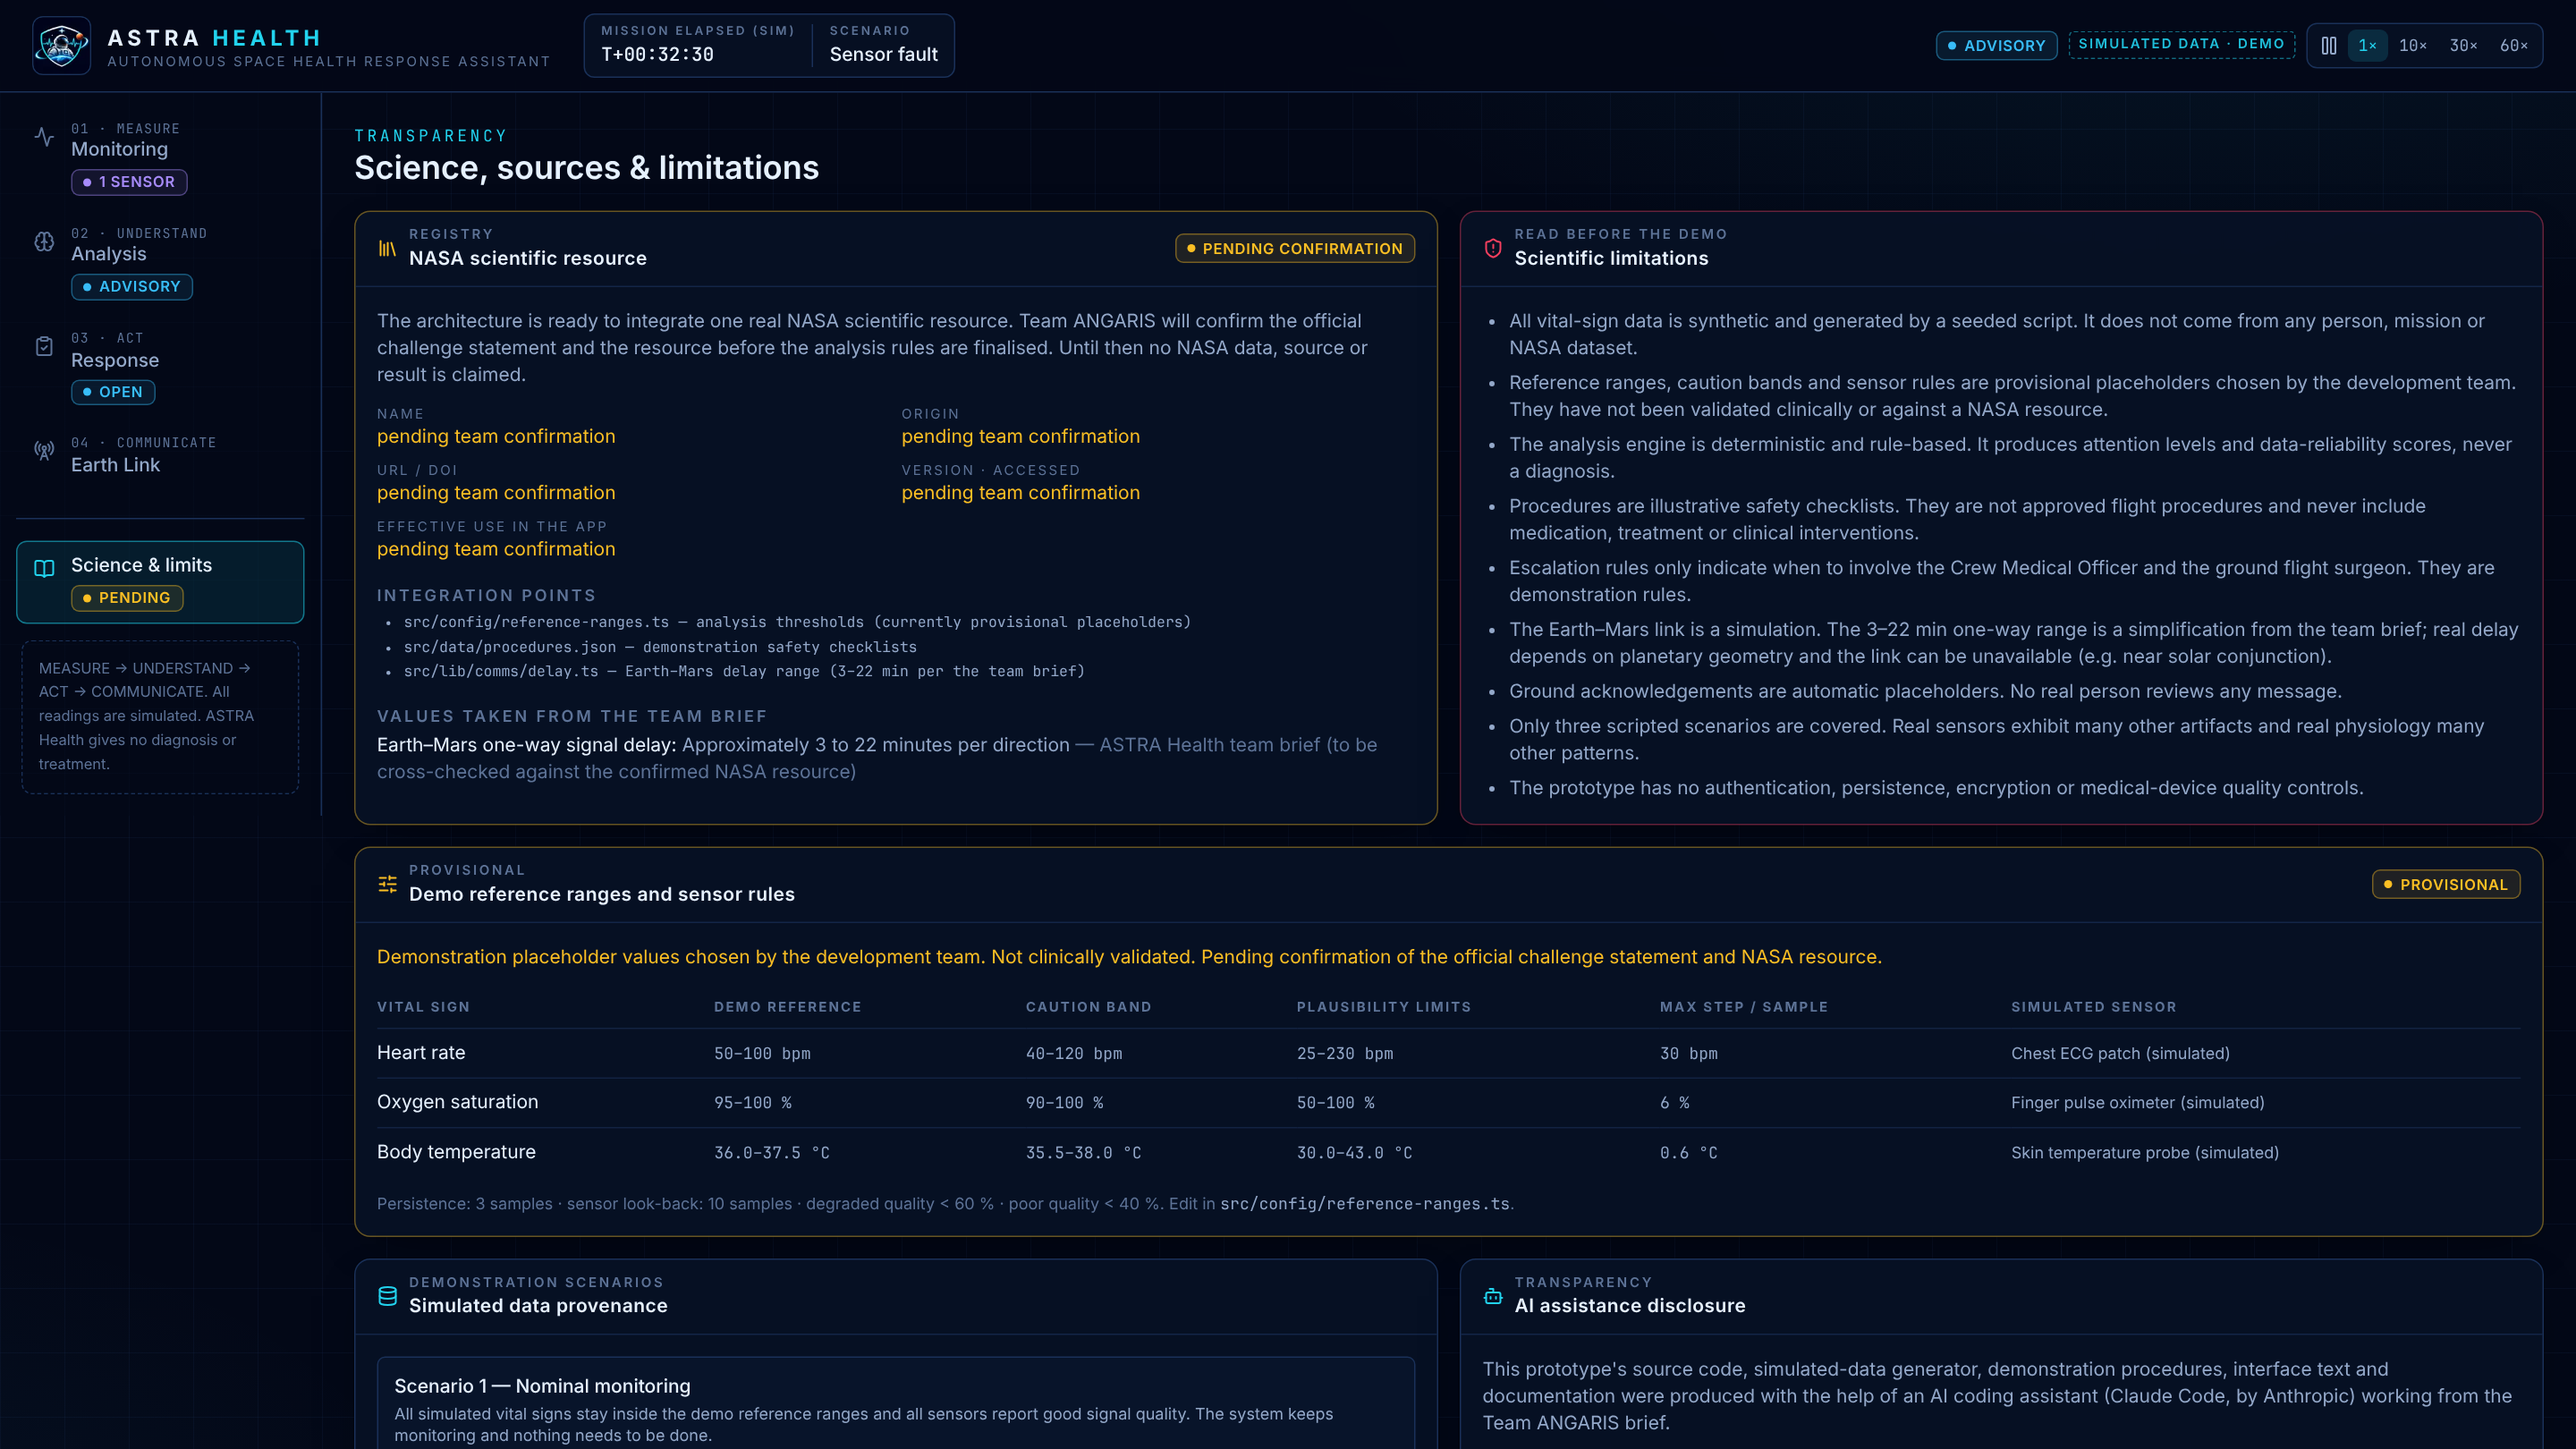
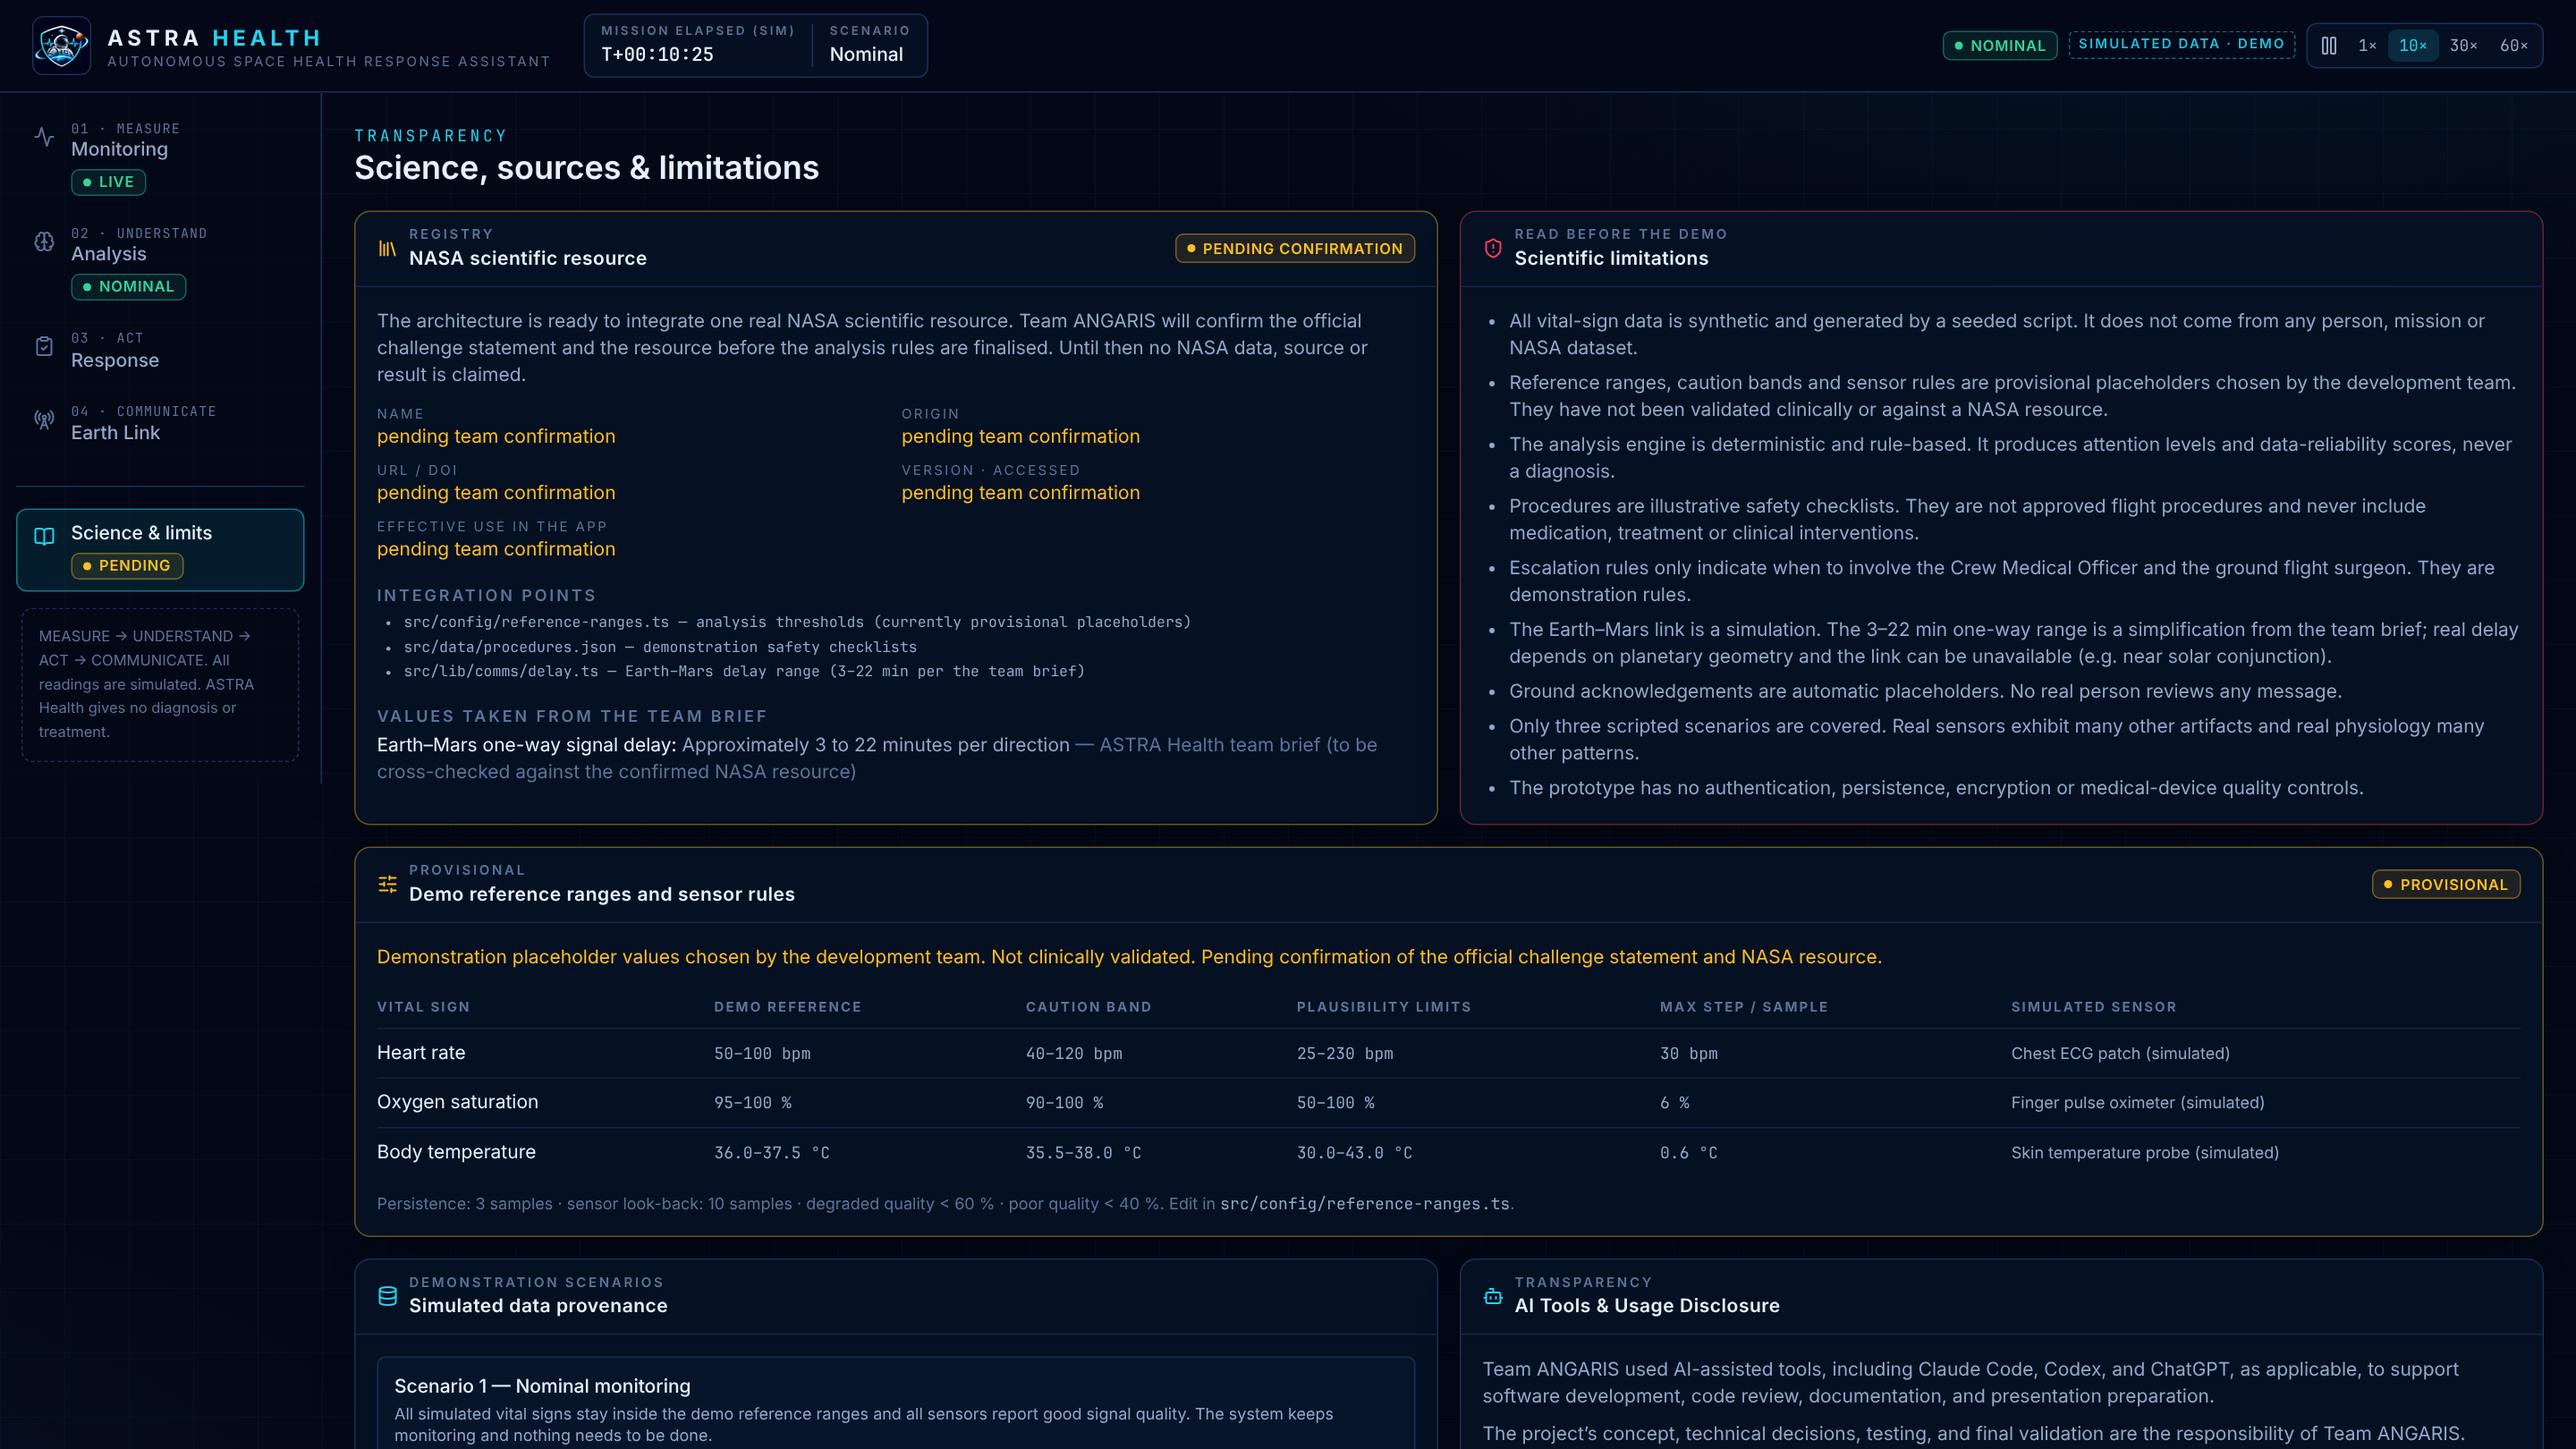
Fix tablet layout and align in-app AI disclosure
- Vital-sign cards stack on tablets (3 columns from 1024 px) and no longer overflow
- Science & limits page shows the Team ANGARIS AI Tools & Usage Disclosure; test added
- README test counts updated; science screenshot recaptured

diff --git a/src/components/science/ScienceView.tsx b/src/components/science/ScienceView.tsx
@@ -135,19 +135,21 @@ export function ScienceView() {
           </ul>
         </Panel>
 
-        <Panel title="AI assistance disclosure" eyebrow="Transparency" icon={Bot}>
-          <div className="space-y-2 text-sm text-ink-muted">
+        <Panel title="AI Tools & Usage Disclosure" eyebrow="Transparency" icon={Bot}>
+          <div className="space-y-2 text-sm text-ink-muted" data-testid="ai-disclosure">
             <p>
-              This prototype&apos;s source code, simulated-data generator, demonstration procedures, interface text and documentation were
-              produced with the help of an AI coding assistant (Claude Code, by Anthropic) working from the Team ANGARIS brief.
+              Team ANGARIS used AI-assisted tools, including Claude Code, Codex, and ChatGPT, as applicable, to support software
+              development, code review, documentation, and presentation preparation.
+            </p>
+            <p>The project&rsquo;s concept, technical decisions, testing, and final validation are the responsibility of Team ANGARIS.</p>
+            <p>
+              All physiological data presented in the prototype are simulated. ASTRA Health is an experimental demonstration and is not
+              a clinically validated medical device.
             </p>
             <p>
-              The team is responsible for reviewing all AI-assisted content, confirming the scientific statement and NASA resource, and
-              validating every rule before any claim is made. See <code>AI_DISCLOSURE.md</code> in the repository.
-            </p>
-            <p>
-              The ASTRA Health logo (and the emblem cropped from it for the header and favicon) is an AI-generated image supplied by
-              the team; the original file keeps its &quot;AI-generated&quot; label (<code>public/brand/astra-health-logo.png</code>).
+              The ASTRA Health logo (and the emblem cropped from it for the header and favicon) is an AI-generated image; the original
+              file keeps its &quot;AI-generated&quot; label (<code>public/brand/astra-health-logo.png</code>). See{" "}
+              <code>AI_DISCLOSURE.md</code> in the repository.
             </p>
             <p className="flex items-center gap-2 text-xs text-ink-faint">
               <FlaskConical className="h-4 w-4" /> No AI model runs inside the application: all analysis is deterministic.

diff --git a/src/components/monitor/MonitorView.tsx b/src/components/monitor/MonitorView.tsx
@@ -102,16 +102,16 @@ function VitalCard({ vital, series }: { vital: VitalKey; series: ChartPoint[] })
       aria-label={`${vc.label} (simulated)`}
     >
       <div className="flex items-start justify-between gap-2">
-        <div className="flex items-center gap-2">
-          <span className={cx("grid h-8 w-8 place-items-center rounded-lg border", t.border, t.bg)}>
+        <div className="flex min-w-0 items-center gap-2">
+          <span className={cx("grid h-8 w-8 shrink-0 place-items-center rounded-lg border", t.border, t.bg)}>
             <Icon aria-hidden className={cx("h-4 w-4", t.text)} />
           </span>
-          <div className="leading-tight">
+          <div className="min-w-0 leading-tight">
             <p className="text-sm font-semibold text-ink">{vc.label}</p>
             <p className="text-[11px] text-ink-faint">Demo ref. {formatRange(vital, vc.normal)}</p>
           </div>
         </div>
-        <DemoTag label="Sim" />
+        <DemoTag label="Sim" className="shrink-0" />
       </div>
       <div className="mt-3 flex items-end gap-2">
         <span className={cx("tabular font-mono text-5xl font-semibold leading-none", excluded ? "text-level-sensor line-through decoration-2" : "text-ink")}>
@@ -231,7 +231,7 @@ export function MonitorView() {
       </div>
       <ScenarioControl />
       <div className="grid grid-cols-1 gap-4 xl:grid-cols-4">
-        <div className="grid grid-cols-1 gap-4 md:grid-cols-3 xl:col-span-3">
+        <div className="grid grid-cols-1 gap-4 lg:grid-cols-3 xl:col-span-3">
           {VITAL_KEYS.map((k) => (
             <VitalCard key={k} vital={k} series={series[k]} />
           ))}

diff --git a/tests/science.test.ts b/tests/science.test.ts
@@ -40,3 +40,16 @@ describe("demonstration procedures", () => {
     }
   });
 });
+
+describe("AI tools & usage disclosure", () => {
+  it("is shown verbatim on the Science & limits page", async () => {
+    const { render, screen } = await import("@testing-library/react");
+    const { ScienceView } = await import("@/components/science/ScienceView");
+    render(ScienceView());
+    const panel = screen.getByTestId("ai-disclosure");
+    expect(panel).toHaveTextContent(
+      "Team ANGARIS used AI-assisted tools, including Claude Code, Codex, and ChatGPT, as applicable, to support software development, code review, documentation, and presentation preparation.",
+    );
+    expect(panel).toHaveTextContent("is not a clinically validated medical device");
+  });
+});

diff --git a/README.pt-BR.md b/README.pt-BR.md
@@ -12,7 +12,7 @@
   <img alt="TypeScript strict" src="https://img.shields.io/badge/TypeScript-strict-3178C6?logo=typescript&logoColor=white" />
   <img alt="Tailwind CSS 4" src="https://img.shields.io/badge/Tailwind_CSS-4-06B6D4?logo=tailwindcss&logoColor=white" />
   <img alt="Recharts 3" src="https://img.shields.io/badge/Recharts-3-22D3EE" />
-  <img alt="Vitest: 52 testes" src="https://img.shields.io/badge/Vitest-52_testes_passando-6E9F18?logo=vitest&logoColor=white" />
+  <img alt="Vitest: 53 testes" src="https://img.shields.io/badge/Vitest-53_testes_passando-6E9F18?logo=vitest&logoColor=white" />
   <img alt="Pronto para Vercel" src="https://img.shields.io/badge/Vercel-pronto-000000?logo=vercel&logoColor=white" />
   <br/>
   <img alt="NASA Space Apps Challenge 2026" src="https://img.shields.io/badge/NASA_Space_Apps-2026-0B3D91" />
@@ -79,7 +79,7 @@ de quatro etapas:
 - 🚨 Indicação clara de **quando** pedir suporte médico — sem jamais recomendar tratamento.
 - 📡 Simulador do link Terra–Marte com atraso de 3 a 22 min por sentido, fila de transmissão, simulação de queda do link e estados de mensagem.
 - 🧾 Relatório de incidente estruturado (texto + JSON) gerado a partir do estado atual.
-- 🧪 52 testes automatizados, incluindo o fluxo completo dos três cenários.
+- 🧪 53 testes automatizados, incluindo o fluxo completo dos três cenários.
 
 ---
 
@@ -526,14 +526,14 @@ npm run dev
 npm test
 ```
 
-**52 testes em 5 arquivos**, todos determinísticos:
+**53 testes em 5 arquivos**, todos determinísticos:
 
 | Arquivo | O que cobre |
 |---|---|
 | `tests/scenarios.test.ts` | Fluxo completo MEDIR → ENTENDER → AGIR → COMUNICAR de cada cenário no reducer da missão: detecções, escalonamento, procedimentos, confirmação, relatório e todos os estados da mensagem. |
 | `tests/analysis.test.ts` | Cada regra (persistência/histerese, perda de leitura, plausibilidade, taxa de variação, qualidade, valor congelado, verificação cruzada), confiabilidade, eventos, resultados da confirmação e ausência de termos diagnósticos. |
 | `tests/comms.test.ts` | Limites do atraso, ida e volta, distância percorrida pela luz, fila por ordem de chegada e por prioridade, queda do link, fixação do atraso e linha do tempo dos estados. |
-| `tests/science.test.ts` | Salvaguardas: nenhum recurso da NASA declarado enquanto pendente; rótulos de provisório; procedimentos sem termos de medicamento ou intervenção clínica. |
+| `tests/science.test.ts` | Salvaguardas: nenhum recurso da NASA declarado enquanto pendente; rótulos de provisório; procedimentos sem termos de medicamento ou intervenção clínica; declaração de uso de IA exibida na página de ciência. |
 | `tests/ui/modules.test.tsx` | Os quatro módulos renderizados com Testing Library: botões de incidente, achados, confirmação, registro de checklist, atalhos de atraso, geração e envio do relatório, valores não verificados de sensor suspeito. |
 
 Verificações executadas antes de cada commit: `npm test`, `npm run lint`, `npm run typecheck`, `npm run build`.

diff --git a/README.md b/README.md
@@ -12,7 +12,7 @@
   <img alt="TypeScript strict" src="https://img.shields.io/badge/TypeScript-strict-3178C6?logo=typescript&logoColor=white" />
   <img alt="Tailwind CSS 4" src="https://img.shields.io/badge/Tailwind_CSS-4-06B6D4?logo=tailwindcss&logoColor=white" />
   <img alt="Recharts 3" src="https://img.shields.io/badge/Recharts-3-22D3EE" />
-  <img alt="Vitest: 52 tests" src="https://img.shields.io/badge/Vitest-52_tests_passing-6E9F18?logo=vitest&logoColor=white" />
+  <img alt="Vitest: 53 tests" src="https://img.shields.io/badge/Vitest-53_tests_passing-6E9F18?logo=vitest&logoColor=white" />
   <img alt="Vercel ready" src="https://img.shields.io/badge/Vercel-ready-000000?logo=vercel&logoColor=white" />
   <br/>
   <img alt="NASA Space Apps Challenge 2026" src="https://img.shields.io/badge/NASA_Space_Apps-2026-0B3D91" />
@@ -78,7 +78,7 @@
 - 🚨 Clear indication of **when** to request medical support — without ever recommending treatment.
 - 📡 Earth–Mars link simulator with 3–22 min one-way delay, transmission queue, outage simulation and message states.
 - 🧾 Structured incident report (text + JSON) generated from the live state.
-- 🧪 52 automated tests, including end-to-end flows of all three scenarios.
+- 🧪 53 automated tests, including end-to-end flows of all three scenarios.
 
 ---
 
@@ -521,14 +521,14 @@ npm run dev
 npm test
 ```
 
-**52 tests in 5 files**, all deterministic:
+**53 tests in 5 files**, all deterministic:
 
 | File | What it covers |
 |---|---|
 | `tests/scenarios.test.ts` | End-to-end MEASURE → UNDERSTAND → ACT → COMMUNICATE flow of each scenario through the mission reducer: detections, escalation, procedures, confirmation, report and every message state. |
 | `tests/analysis.test.ts` | Each rule (persistence/hysteresis, dropout, plausibility, rate of change, quality, frozen value, cross-check), reliability, events, confirmation outcomes and absence of diagnostic wording. |
 | `tests/comms.test.ts` | Delay limits, round trip, light-travel distance, FIFO and priority queue, outage, delay locking and state timeline. |
-| `tests/science.test.ts` | Guards: no NASA resource claimed while pending; provisional labels; procedures free of medication and clinical-intervention terms. |
+| `tests/science.test.ts` | Guards: no NASA resource claimed while pending; provisional labels; procedures free of medication and clinical-intervention terms; AI disclosure shown on the Science page. |
 | `tests/ui/modules.test.tsx` | The four modules rendered with Testing Library: incident buttons, findings, confirmation, checklist logging, delay presets, report generation and queuing, unverified sensor values. |
 
 Quality gates run before each commit: `npm test`, `npm run lint`, `npm run typecheck`, `npm run build`.
